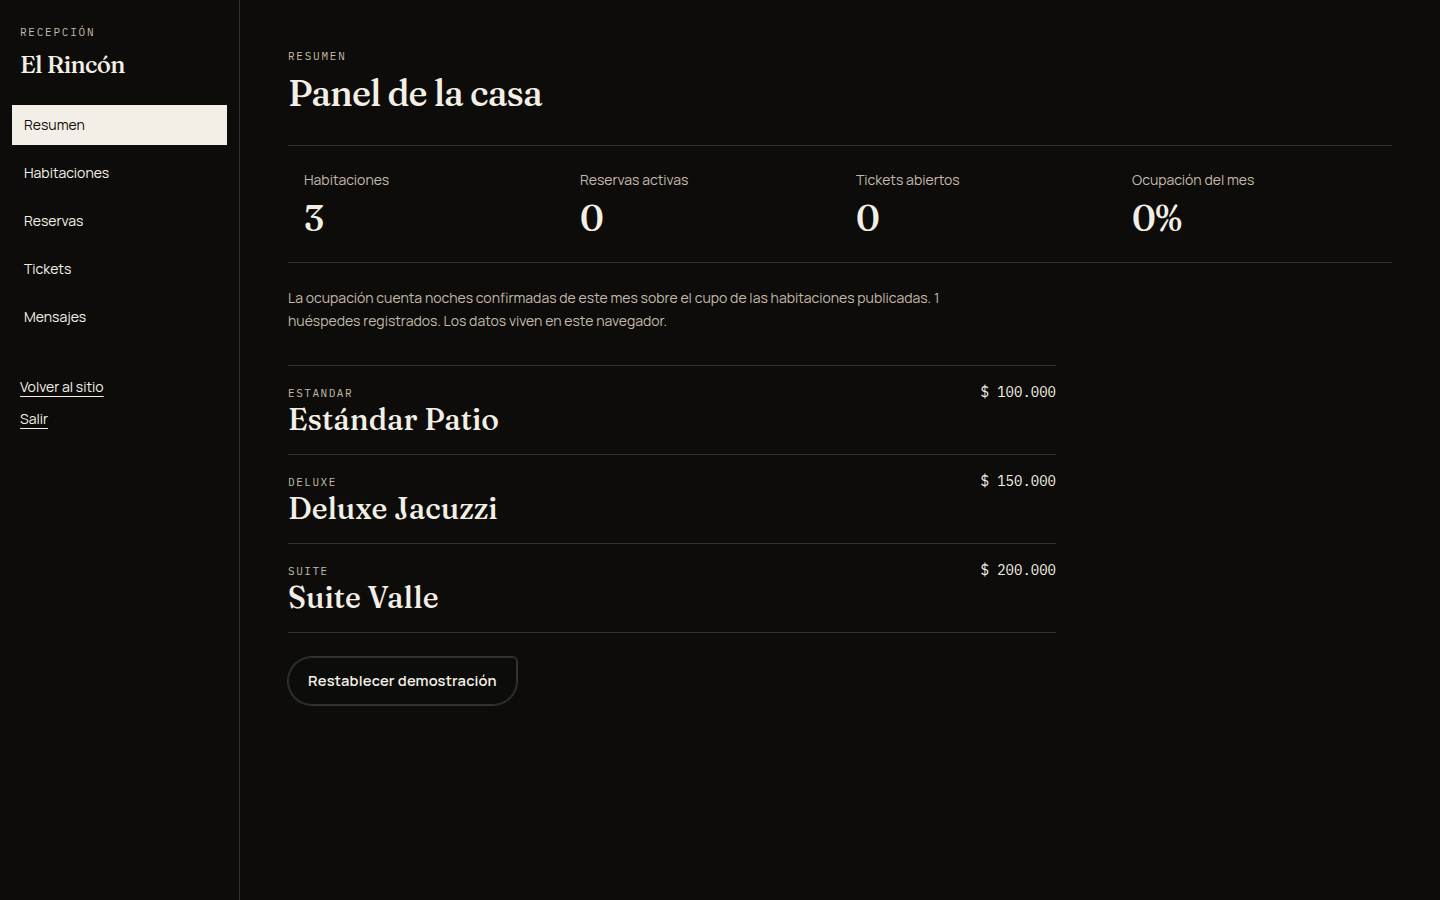
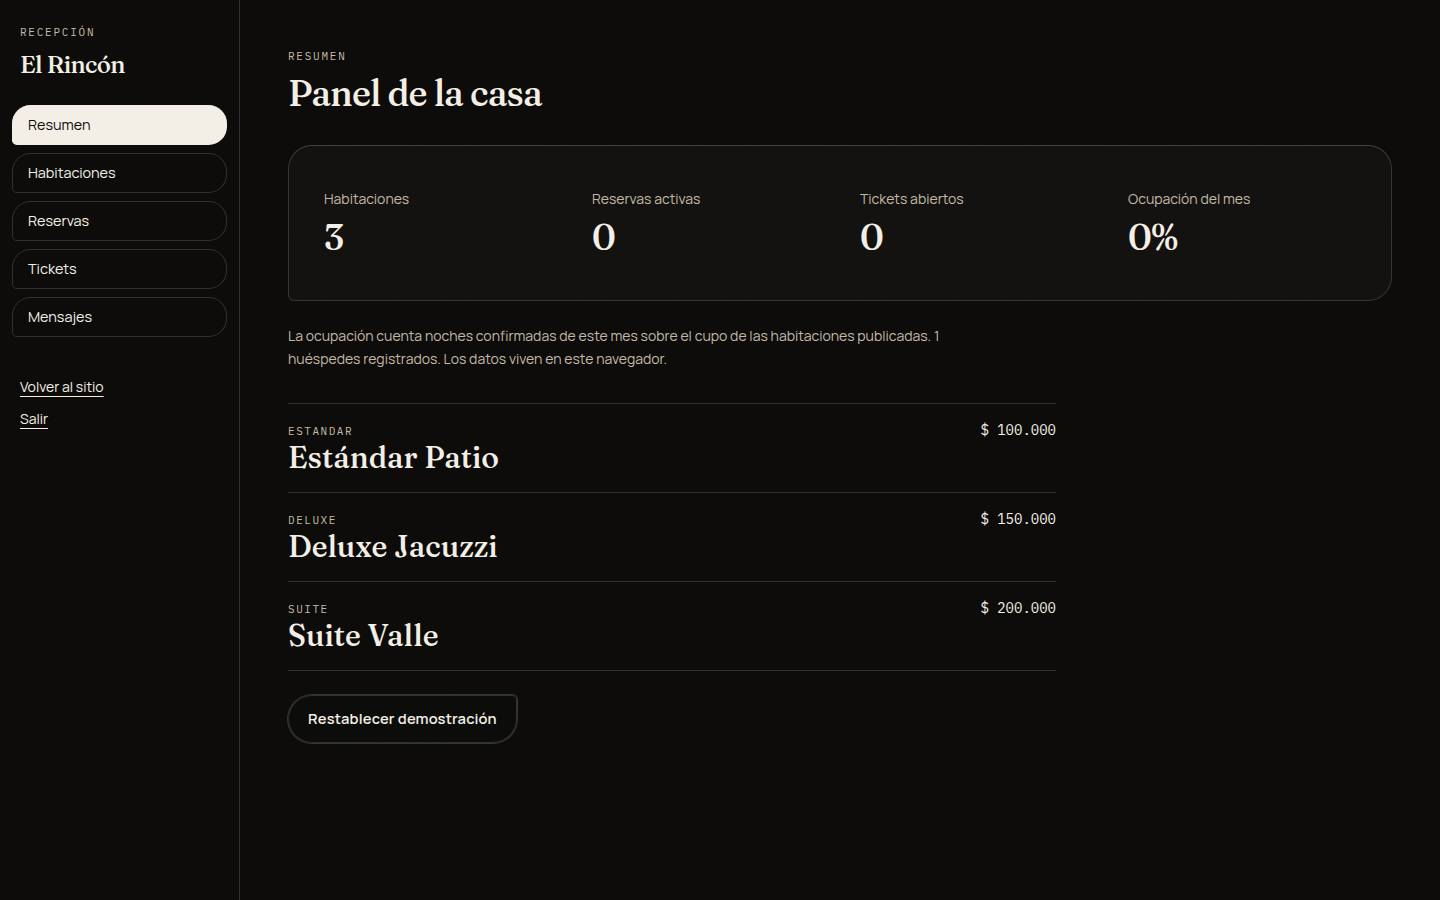
fix: unificar campos, estados vacios y la pagina 404
Los controles siguen la forma de los botones y la reserva explica por que no se puede confirmar.

diff --git a/src/features/admin/admin-page.tsx b/src/features/admin/admin-page.tsx
@@ -104,10 +104,7 @@ export function AdminPage() {
               type="button"
               aria-current={section === item.id ? 'page' : undefined}
               onClick={() => setSection(item.id)}
-              className={cn(
-                'h-10 px-3 text-left text-sm',
-                section === item.id ? 'bg-fg text-bg' : 'hover:bg-elev',
-              )}
+              className="chip w-full text-left"
             >
               {item.label}
             </button>
@@ -127,7 +124,7 @@ export function AdminPage() {
         </div>
       </aside>
 
-      <div className="px-5 py-10 sm:px-8 lg:px-12 lg:py-12">
+      <div className="min-w-0 px-5 py-10 sm:px-8 lg:px-12 lg:py-12">
         <div className="mb-8 flex flex-wrap items-end justify-between gap-4">
           <div>
             <p className="font-mono text-[11px] tracking-[0.16em] text-muted uppercase">
@@ -152,7 +149,7 @@ export function AdminPage() {
 
         {section === 'resumen' ? (
           <div>
-            <dl className="grid border-y border-line sm:grid-cols-4">
+            <dl className="panel grid gap-2 sm:grid-cols-4">
               {[
                 [String(hotel.rooms.length), 'Habitaciones'],
                 [String(confirmed), 'Reservas activas'],
@@ -249,7 +246,7 @@ export function AdminPage() {
         ) : null}
 
         {section === 'reservas' ? (
-          <div className="overflow-x-auto">
+          <div className="panel min-w-0 overflow-x-auto">
             <table className="w-full min-w-[720px] border-t border-line text-left text-sm">
               <thead className="font-mono text-[11px] tracking-[0.14em] text-muted uppercase">
                 <tr>

diff --git a/src/App.tsx b/src/App.tsx
@@ -1,6 +1,7 @@
 import { lazy, Suspense, type ReactNode } from 'react'
 import { BrowserRouter, Navigate, Route, Routes, useLocation } from 'react-router-dom'
 import { MarketingLayout } from '@/components/layout/marketing-layout'
+import { Button } from '@/components/ui/button'
 import { SmoothScroll } from '@/components/layout/smooth-scroll'
 import { HotelProvider, useHotel } from '@/lib/hotel-context'
 import { ThemeProvider } from '@/lib/theme'
@@ -43,10 +44,14 @@ function RequireAdmin({ children }: { children: ReactNode }) {
 function NotFound() {
   return (
     <div className="shell pt-36 pb-24">
-      <h1 className="font-display text-5xl tracking-tight">Esa página no existe.</h1>
-      <a href="/" className="mt-6 inline-flex underline underline-offset-4">
-        Volver al inicio
-      </a>
+      <p className="type-kicker text-muted">404</p>
+      <h1 className="type-h1 mt-3">Esa página no existe.</h1>
+      <p className="mt-4 max-w-md text-muted">
+        La dirección no corresponde a una habitación, una reserva ni al panel.
+      </p>
+      <Button asChild variant="primary" arrow className="mt-8">
+        <a href="/">Volver al inicio</a>
+      </Button>
     </div>
   )
 }

diff --git a/src/features/booking/booking-page.tsx b/src/features/booking/booking-page.tsx
@@ -93,7 +93,10 @@ export function BookingPage() {
             : 'Disponible. El total de abajo es el que se guarda.'
 
   async function onSubmit(values: GuestValues) {
-    if (!selected || !quote?.ok || !available) return
+    if (!selected || !quote?.ok || !available) {
+      setSubmitError(status)
+      return
+    }
     setSubmitError(null)
     try {
       const booking = await createBooking({
@@ -293,7 +296,7 @@ export function BookingPage() {
           ) : null}
         </form>
 
-        <aside className="h-fit border border-line p-5 lg:sticky lg:top-24 lg:col-span-5">
+        <aside className="panel h-fit lg:sticky lg:top-24 lg:col-span-5">
           {selected && quote?.ok ? (
             <PriceSummary
               roomName={selected.nombre}
@@ -315,7 +318,6 @@ export function BookingPage() {
             variant="primary"
             arrow
             className="btn-block mt-6"
-            disabled={!available}
             loading={form.formState.isSubmitting}
           >
             Confirmar reserva

diff --git a/src/features/booking/calendar.css b/src/features/booking/calendar.css
@@ -1,15 +1,19 @@
 .rdp-root {
   --rdp-accent-color: var(--fg);
   --rdp-accent-background-color: var(--elev);
-  --rdp-day-height: 40px;
-  --rdp-day-width: 40px;
+  --rdp-day-height: 42px;
+  --rdp-day-width: 42px;
   --rdp-day_button-height: 38px;
   --rdp-day_button-width: 38px;
+  --rdp-day_button-border-radius: 1rem 1rem 1rem 0.25rem;
   --rdp-today-color: var(--accent);
   --rdp-range_start-color: var(--bg);
   --rdp-range_end-color: var(--bg);
-  --rdp-range_start-date-background-color: var(--fg);
-  --rdp-range_end-date-background-color: var(--fg);
-  --rdp-selected-border: 2px solid var(--fg);
+  --rdp-range_start-date-background-color: var(--accent);
+  --rdp-range_end-date-background-color: var(--accent);
+  --rdp-selected-border: 0;
   color: var(--fg);
+  padding: 0.75rem;
+  border-radius: 1.5rem 1.5rem 1.5rem 0.4rem;
+  box-shadow: inset 0 0 0 1px var(--line);
 }

diff --git a/src/index.css b/src/index.css
@@ -94,6 +94,36 @@ body::before {
   text-transform: uppercase;
 }
 
+.panel {
+  border-radius: 1.5rem 1.5rem 1.5rem 0.4rem;
+  background: color-mix(in srgb, var(--elev) 62%, transparent);
+  box-shadow:
+    inset 0 1px 0 rgb(255 255 255 / 0.06),
+    inset 0 0 0 1px var(--line);
+  padding: 1.25rem;
+}
+
+.chip {
+  min-height: 2.5rem;
+  padding-inline: 1rem;
+  border: 0;
+  border-radius: 1.15rem 1.15rem 1.15rem 0.3rem;
+  background: transparent;
+  color: var(--fg);
+  box-shadow: inset 0 0 0 1px var(--line);
+  font: inherit;
+  font-size: 0.9rem;
+  cursor: pointer;
+}
+
+.chip[aria-pressed='true'],
+.chip[aria-selected='true'],
+.chip[aria-current='page'] {
+  background: var(--fg);
+  color: var(--bg);
+  box-shadow: none;
+}
+
 .rule {
   height: 1px;
   transform-origin: left;

diff --git a/src/features/rooms/rooms-page.tsx b/src/features/rooms/rooms-page.tsx
@@ -7,7 +7,6 @@ import { PageIntro, usePageTitle } from '@/components/page-intro'
 import { typeLabel } from '@/data/content'
 import { formatCop } from '@/lib/format'
 import { useHotel } from '@/lib/hotel-context'
-import { cn } from '@/lib/cn'
 import type { RoomType } from '@/lib/api/types'
 
 const filters: Array<{ id: 'todas' | RoomType; label: string }> = [
@@ -61,10 +60,7 @@ export function RoomsPage() {
             type="button"
             aria-pressed={filter === item.id}
             onClick={() => setFilter(item.id)}
-            className={cn(
-              'h-10 border px-4 text-sm',
-              filter === item.id ? 'border-fg bg-fg text-bg' : 'border-line',
-            )}
+            className="chip"
           >
             {item.label}
           </button>

diff --git a/src/features/auth/auth-page.tsx b/src/features/auth/auth-page.tsx
@@ -8,7 +8,6 @@ import { controlClass, Field } from '@/components/ui/field'
 import { Photo } from '@/components/photo'
 import { useHotel } from '@/lib/hotel-context'
 import { adminLoginSchema, loginSchema, registerSchema, type RegisterValues } from '@/lib/schemas'
-import { cn } from '@/lib/cn'
 import type { z } from 'zod'
 
 type Mode = 'entrar' | 'registro' | 'recepcion'
@@ -69,10 +68,7 @@ export function AuthPage() {
                 setMode(id)
                 setError(null)
               }}
-              className={cn(
-                'h-10 border px-3 text-sm',
-                mode === id ? 'border-fg bg-fg text-bg' : 'border-line',
-              )}
+              className="chip"
             >
               {label}
             </button>

diff --git a/src/components/layout/marketing-layout.tsx b/src/components/layout/marketing-layout.tsx
@@ -22,7 +22,7 @@ function ScrollProgress() {
 }
 
 export function MarketingLayout() {
-  const { error } = useHotel()
+  const { error, ready } = useHotel()
   const { pathname } = useLocation()
   return (
     <>
@@ -38,6 +38,11 @@ export function MarketingLayout() {
           El Rincón · Carmen de Apicalá
         </p>
       </div>
+      {!ready ? (
+        <p className="shell pt-28 text-sm text-muted" role="status">
+          Cargando la casa…
+        </p>
+      ) : null}
       {error ? (
         <p
           className="shell mt-24 text-sm text-accent"

diff --git a/src/components/ui/field.tsx b/src/components/ui/field.tsx
@@ -2,7 +2,7 @@ import type { ReactNode } from 'react'
 import { cn } from '@/lib/cn'
 
 export const controlClass =
-  'w-full border border-line bg-bg px-3 py-3 text-sm text-fg outline-none placeholder:text-muted'
+  'w-full rounded-[1.15rem_1.15rem_1.15rem_0.35rem] bg-bg px-4 py-3 text-sm text-fg shadow-[inset_0_0_0_1px_var(--line),0_0_0_1px_color-mix(in_srgb,var(--fg)_14%,transparent)] outline-none transition focus-visible:shadow-[inset_0_0_0_1px_var(--accent),0_0_0_1px_var(--accent)]'
 
 export function Field({
   label,
